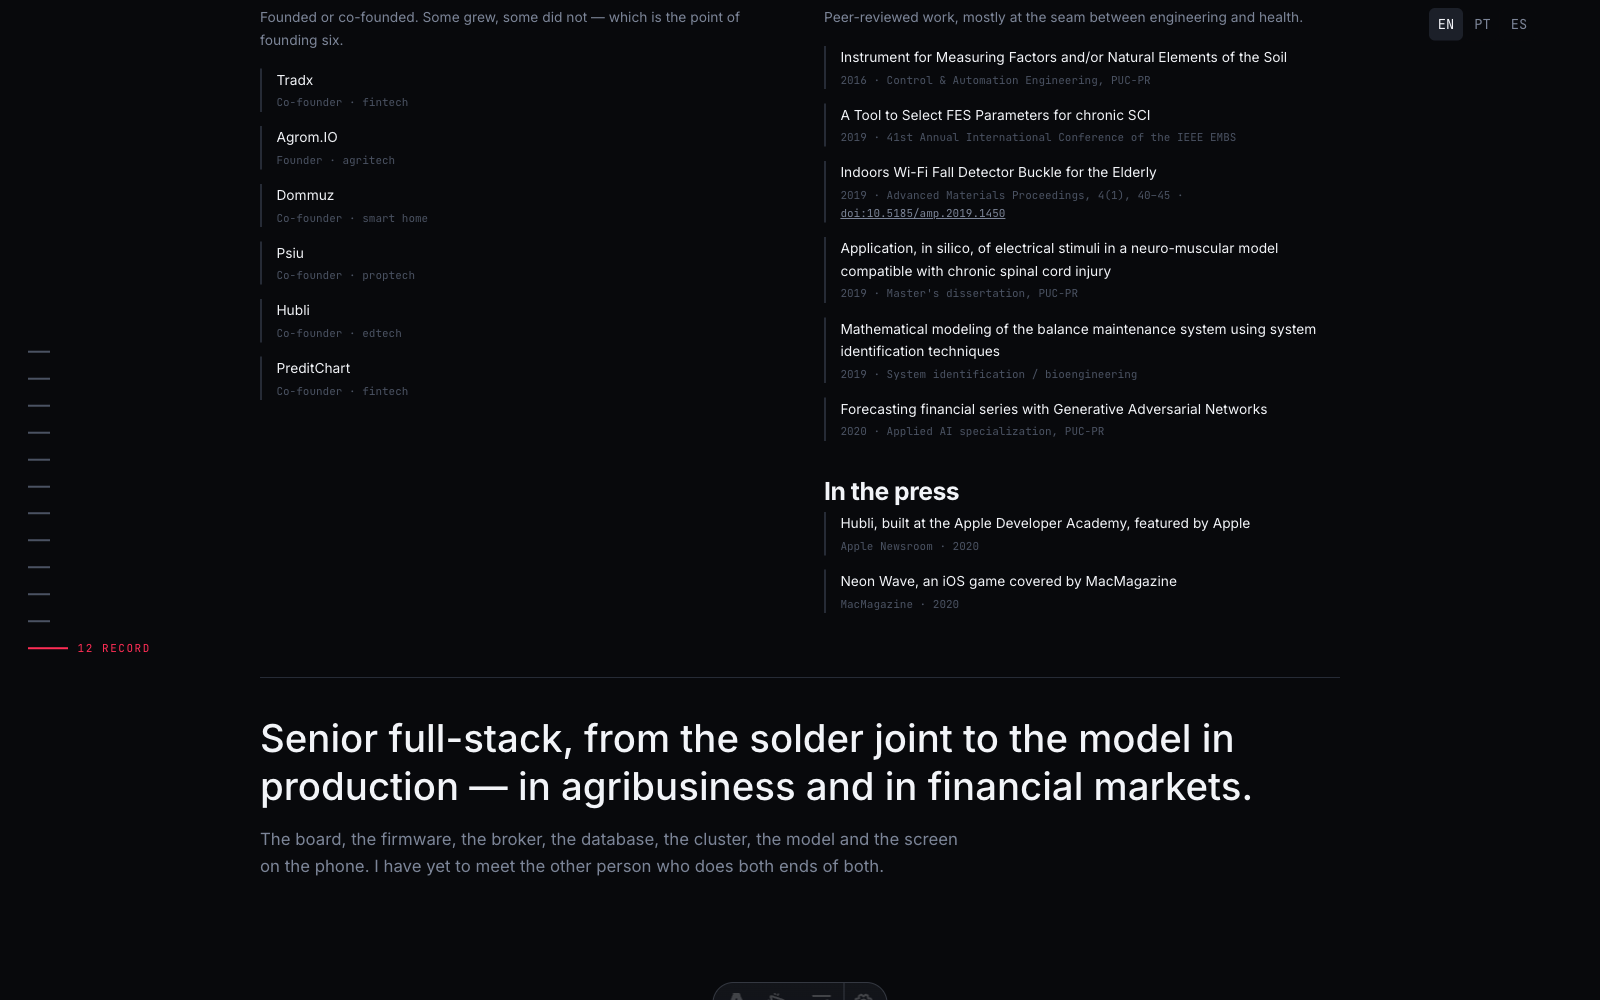
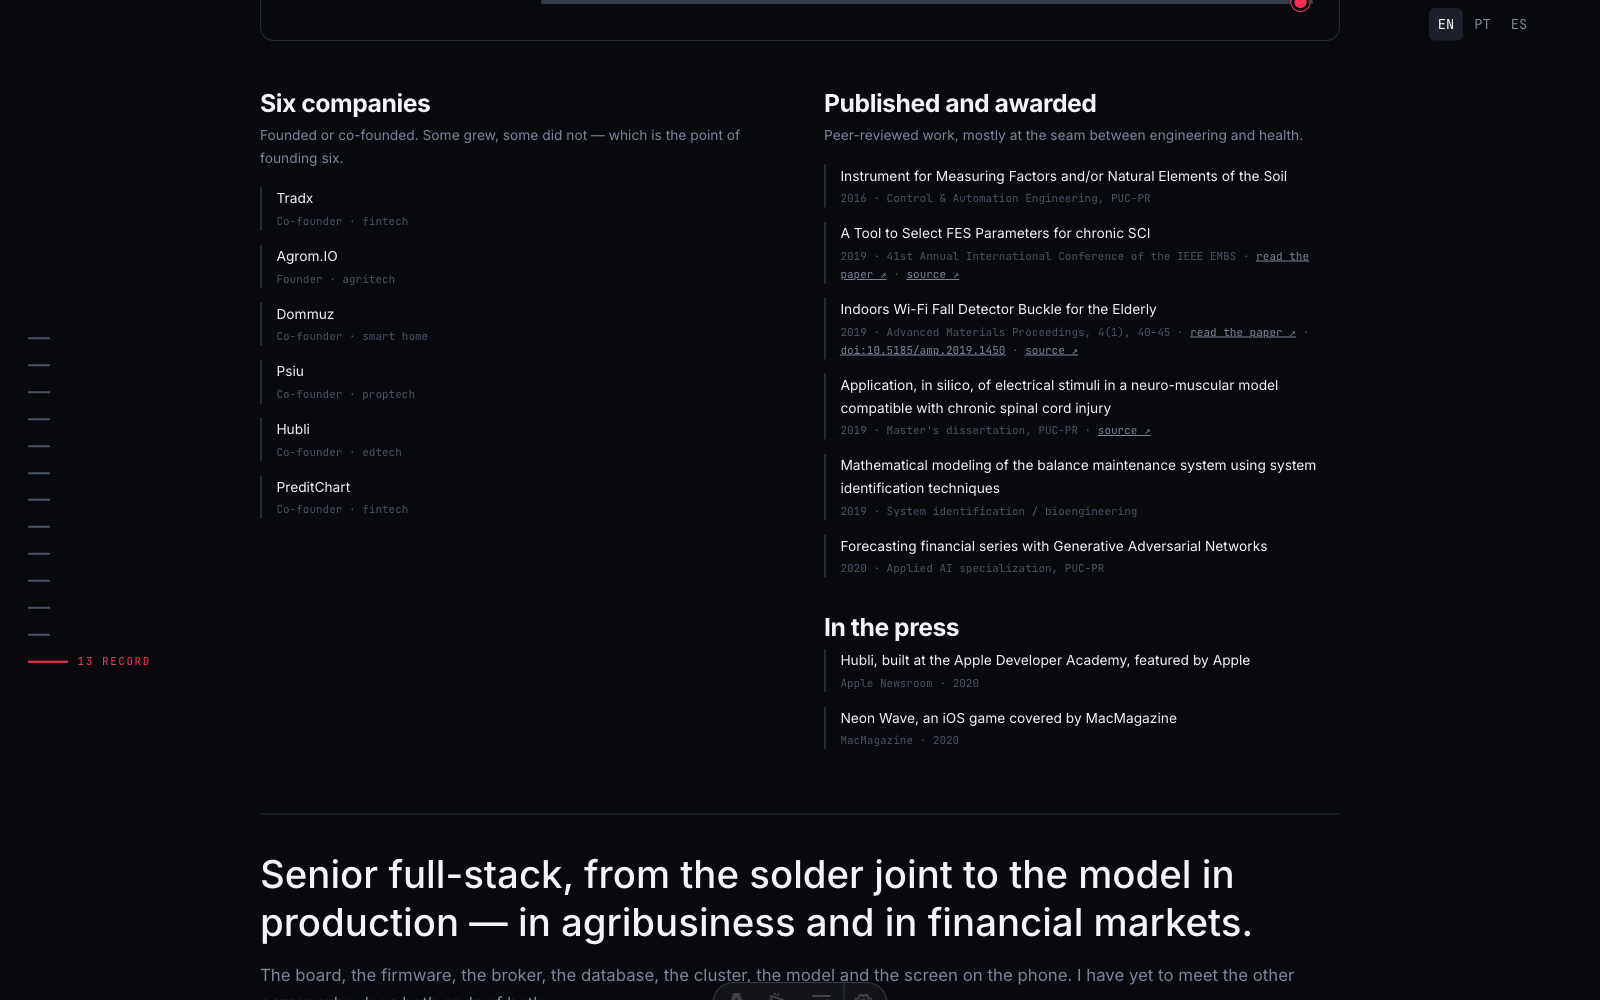
Link the publications and the repositories that back them
Maykon gave his GitHub handle and pointed at the SwiftUI repository, so
the page has somewhere to send a reader now.

Verified by opening each one, not by constructing a plausible URL:

- github.com/maykonmeneghel, in the hero next to LinkedIn
- ieeexplore.ieee.org/document/8857421 for the FES tool, which lists the
  authors as M.C. Meneghel, E.F. Manffra and G.N. Nogueira Neto
- amp.iaamonline.org/article_16020.html, the full text of the fall
  detector paper the DOI already pointed at
- two repositories that hold the work the papers describe:
  PoC-Buckle-Device-ESP32 for the buckle, EENM-Simulation-System for the
  master's neuro-muscular model

The last two are the strongest thing in that section. A recruiter can
read the paper and then read the firmware it was written about.

Clean-SwiftUI takes the fourth hero chip, at 30 stars counted today. The
publications chip it replaced was already proven by the section below it;
the repository is the only credential up there a reader can check in one
click. The count will drift, so CONTENT-TODO says when it was taken.

The two press items stay unlinked, and not for want of looking. The 2021
Apple Newsroom piece on the Developer Academy names Elevate, Super Pads
and Hearo — Hubli is not in it — and MacMagazine returns nothing for Neon
Wave. Both claims come from his own portfolio so they stand, but I will
not attach a URL I cannot confirm is the right one. Four other
[…]

diff --git a/apps/maykon/src/content/career.ts b/apps/maykon/src/content/career.ts
@@ -62,17 +62,33 @@ export interface Publication {
   year: number;
   venue: string;
   doi?: string;
+  /** Where the paper itself is. Verified by opening it, not by guessing a URL. */
+  url?: string;
+  /** A repository that holds the thing the paper is about. */
+  code?: string;
 }
 
 export const publications: Publication[] = [
   { id: 'soilInstrument', year: 2016, venue: 'Control & Automation Engineering, PUC-PR' },
-  { id: 'fesTool',        year: 2019, venue: '41st Annual International Conference of the IEEE EMBS' },
-  { id: 'fallDetector',   year: 2019, venue: 'Advanced Materials Proceedings, 4(1), 40–45', doi: '10.5185/amp.2019.1450' },
-  { id: 'inSilicoFes',    year: 2019, venue: "Master's dissertation, PUC-PR" },
+  { id: 'fesTool',        year: 2019, venue: '41st Annual International Conference of the IEEE EMBS',
+    url: 'https://ieeexplore.ieee.org/document/8857421',
+    code: 'https://github.com/maykonmeneghel/EENM-Simulation-System' },
+  { id: 'fallDetector',   year: 2019, venue: 'Advanced Materials Proceedings, 4(1), 40–45', doi: '10.5185/amp.2019.1450',
+    url: 'https://amp.iaamonline.org/article_16020.html',
+    code: 'https://github.com/maykonmeneghel/PoC-Buckle-Device-ESP32' },
+  { id: 'inSilicoFes',    year: 2019, venue: "Master's dissertation, PUC-PR",
+    code: 'https://github.com/maykonmeneghel/EENM-Simulation-System' },
   { id: 'balanceModel',   year: 2019, venue: 'System identification / bioengineering' },
   { id: 'stockGan',       year: 2020, venue: 'Applied AI specialization, PUC-PR' },
 ];
 
+/**
+ * No URLs here yet, and not for want of looking. Neither item could be found:
+ * the 2021 Apple Newsroom piece on the Developer Academy names three apps and
+ * Hubli is not one of them, and MacMagazine's site returns nothing for Neon
+ * Wave. Both claims come from Maykon's own 2024 portfolio, so they stand — but
+ * they stay unlinked until he produces the articles. See docs/CONTENT-TODO.md.
+ */
 export const press = [
   { id: 'hubli',    outlet: 'Apple Newsroom', year: 2020 },
   { id: 'neonWave', outlet: 'MacMagazine',    year: 2020 },

diff --git a/apps/maykon/src/content/es.ts b/apps/maykon/src/content/es.ts
@@ -16,10 +16,11 @@ export const es: Content = {
       'Doce apps iOS nativas · una destacada por Apple',
       'COO y cofundador · Tradx',
       'Máster en Bioingeniería · posgrado en IA aplicada',
-      'Seis publicaciones revisadas por pares',
+      'Clean Architecture para SwiftUI · 30★ en GitHub',
     ],
     links: [
       { label: 'LinkedIn', href: 'https://www.linkedin.com/in/maykonmeneghel/' },
+      { label: 'GitHub', href: 'https://github.com/maykonmeneghel' },
     ],
     cta: 'Empezar el recorrido',
     scrollHint: 'desliza',
@@ -201,6 +202,8 @@ export const es: Content = {
     publications: {
       title: 'Publicado y premiado',
       lede: 'Trabajo revisado por pares, casi todo en la costura entre ingeniería y salud.',
+      read: 'leer el artículo',
+      code: 'código',
       items: {
         soilInstrument: 'Instrumento para la Medición de Factores y/o Elementos Naturales del Suelo',
         fesTool: 'A Tool to Select FES Parameters for chronic SCI',

diff --git a/apps/maykon/src/content/en.ts b/apps/maykon/src/content/en.ts
@@ -16,10 +16,11 @@ export const en: Content = {
       'Twelve native iOS apps · one featured by Apple',
       'COO & co-founder · Tradx',
       'M.Sc. Bioengineering · postgraduate specialization in applied AI',
-      'Six peer-reviewed publications',
+      'Clean Architecture for SwiftUI · 30★ on GitHub',
     ],
     links: [
       { label: 'LinkedIn', href: 'https://www.linkedin.com/in/maykonmeneghel/' },
+      { label: 'GitHub', href: 'https://github.com/maykonmeneghel' },
     ],
     cta: 'Start the tour',
     scrollHint: 'scroll',
@@ -201,6 +202,8 @@ export const en: Content = {
     publications: {
       title: 'Published and awarded',
       lede: 'Peer-reviewed work, mostly at the seam between engineering and health.',
+      read: 'read the paper',
+      code: 'source',
       items: {
         soilInstrument: 'Instrument for Measuring Factors and/or Natural Elements of the Soil',
         fesTool: 'A Tool to Select FES Parameters for chronic SCI',

diff --git a/apps/maykon/src/content/pt.ts b/apps/maykon/src/content/pt.ts
@@ -16,10 +16,11 @@ export const pt: Content = {
       'Doze apps iOS nativos · um destacado pela Apple',
       'COO e cofundador · Tradx',
       'Mestre em Bioengenharia · pós em IA aplicada',
-      'Seis publicações revisadas por pares',
+      'Clean Architecture para SwiftUI · 30★ no GitHub',
     ],
     links: [
       { label: 'LinkedIn', href: 'https://www.linkedin.com/in/maykonmeneghel/' },
+      { label: 'GitHub', href: 'https://github.com/maykonmeneghel' },
     ],
     cta: 'Começar o tour',
     scrollHint: 'role',
@@ -201,6 +202,8 @@ export const pt: Content = {
     publications: {
       title: 'Publicado e premiado',
       lede: 'Trabalho revisado por pares, quase todo na costura entre engenharia e saúde.',
+      read: 'ler o artigo',
+      code: 'código',
       items: {
         soilInstrument: 'Instrumento para Medição de Fatores e/ou Elementos Naturais do Solo',
         fesTool: 'A Tool to Select FES Parameters for chronic SCI',

diff --git a/apps/maykon/src/content/types.ts b/apps/maykon/src/content/types.ts
@@ -51,7 +51,7 @@ export interface RecordSection {
     coFounder: string;
     sectors: Record<string, string>;
   };
-  publications: { title: string; lede: string; items: Record<string, string> };
+  publications: { title: string; lede: string; read: string; code: string; items: Record<string, string> };
   press: { title: string; items: Record<string, string> };
   /** The line the page ends on. */
   closing: { line: string; note: string };
